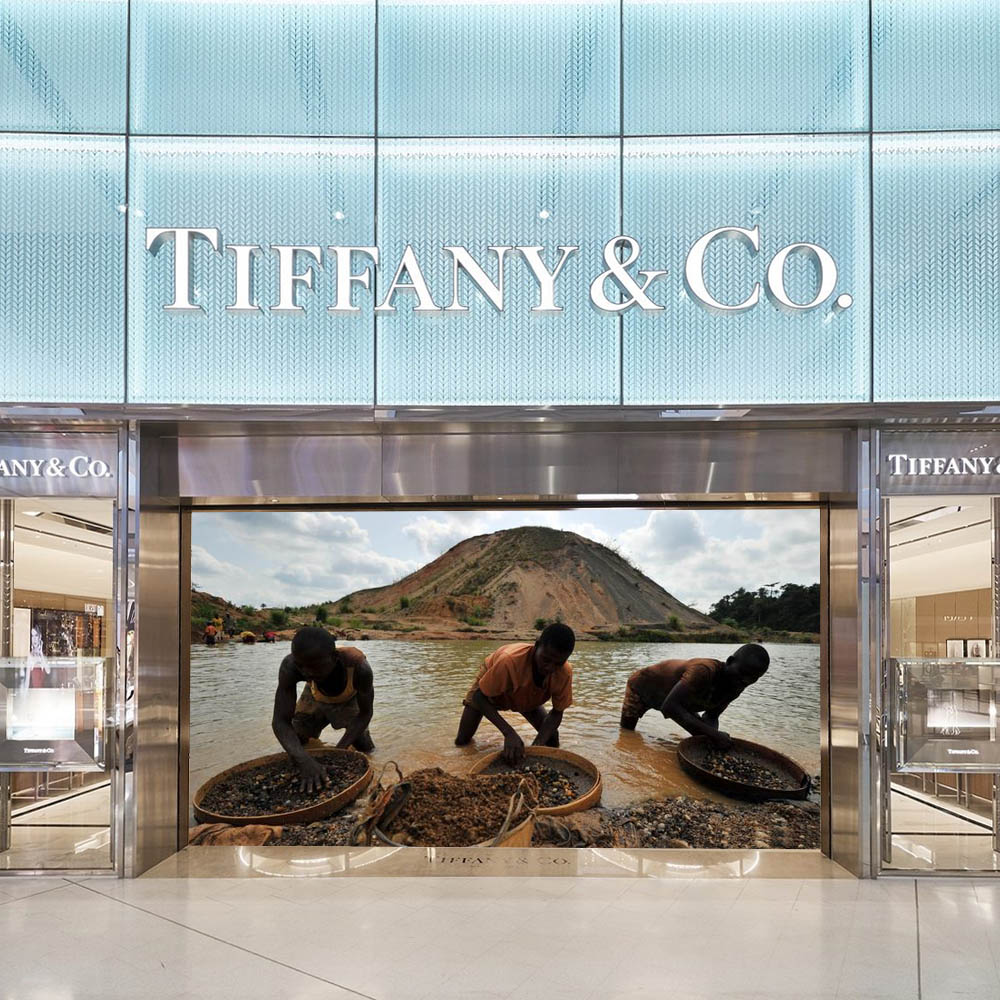
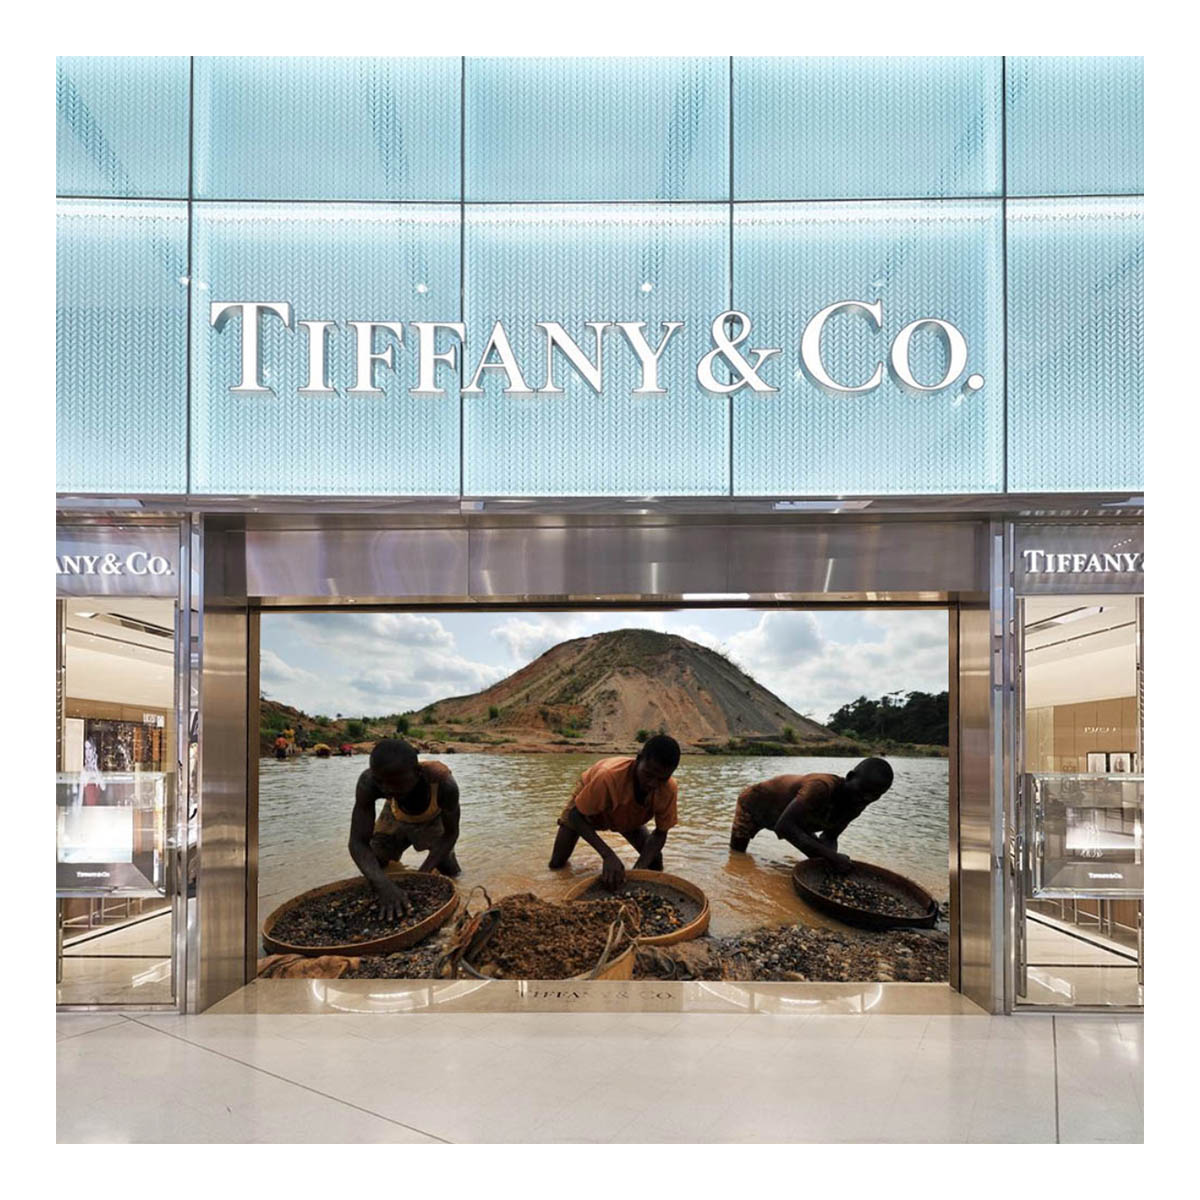
first upload

diff --git a/2.html b/2.html
@@ -1,7 +1,7 @@
 <!DOCTYPE html>
 <html>
     <head>
-        <title> Example 0</title>
+        <title> Page 2</title>
             <style>
         	h1{color:black;}
         	p{color:black;}
@@ -11,18 +11,29 @@
                 img.bottom {
                 vertical-align: text-bottom;
 }
+h8 {
+  min-width:200px;
+  max-width:500px;
+  text-align:center;
+  white-space: pre-line;
+}
             </style>
     </head>
     <body >
                <center><a href="3.html">
-  <img src="2.jpg" alt="HTML tutorial" style="width:700px;height:700px;border:0;">
+  <img src="2.jpg" alt="HTML tutorial" style="width:600px;height:600px;border:0;">
 </a></center>
 
+<font face="Courier New" color="black"><center><h8>"diamonds" / jpg images / oct 2017
+This is a combined image of a Tiffanys store and a Angolan diamond picking operation.
+The idea was to get two images and stack one to achieve a better horizon line.
+The color of the sky and tones of the store made a good match with what I was working with.
+</h8></center>
 
 <h1 align="left">sitemap</h1>
      <p style="text-align:left">
     <a href="main.html">1</a> 
-    <a href="3.html">3</a>
+    <a href="3.html">3</a></font>
 </p>
     </body>
 </html>

diff --git a/3.html b/3.html
@@ -1,7 +1,7 @@
 <!DOCTYPE html>
 <html>
     <head>
-        <title> Example 0</title>
+        <title> Page 3</title>
             <style>
         	h1{color:black;}
         	p{color:black;}
@@ -11,18 +11,29 @@
                 img.bottom {
                 vertical-align: text-bottom;
 }
+h8 {
+  min-width:200px;
+  max-width:500px;
+  text-align:center;
+  white-space: pre-line;
+}
             </style>
     </head>
     <body >
                <center><a href="main.html">
-  <img src="3.jpg" alt="HTML tutorial" style="width:700px;height:700px;border:0;">
+  <img src="3.jpg" alt="HTML tutorial" style="width:600px;height:600px;border:0;">
 </a></center>
 
+<font face="Courier New" color="black"><center><h8>"power" / jpg images / oct 2017
+This is a combined image of a Tiffanys store and a Angolan diamond picking operation.
+The idea was to get two images and stack one to achieve a better horizon line.
+The color of the sky and tones of the store made a good match with what I was working with.
+</h8></center>
 
 <h1 align="left">sitemap</h1>
      <p style="text-align:left">
     <a href="main.html">1</a> 
-    <a href="2.html">2</a>
+    <a href="2.html">2</a></font>
 </p>
     </body>
 </html>

diff --git a/main.html b/main.html
@@ -1,7 +1,7 @@
 <!DOCTYPE html>
 <html>
     <head>
-        <title> Example 0</title>
+        <title> Project 5</title>
             <style>
         	h1{color:black;}
         	p{color:black;}
@@ -11,17 +11,28 @@
                 img.bottom {
                 vertical-align: text-bottom;
 }
+h8 {
+  min-width:200px;
+  max-width:500px;
+  text-align:center;
+  white-space: pre-line;
+}
             </style>
     </head>
-    <body >
+    <body , >
                <center><a href="2.html">
-  <img src="malcolm.jpg" alt="HTML tutorial" style="width:700px;height:700px;border:0;">
+  <img src="malcolm.jpg" alt="HTML tutorial" style="width:600px;height:600px;border:0;">
 </a></center>
+
+<font face="Courier New" color="black"><center><h8>"1947" / jpg images / oct 2017
+I wanted to recreate a image of Malcolm X and his run with the police in 1947.
+Incorporating the artist elements of his time was something I had kept in mind.
+The relationship between the comics character and the subject at matter.</h8></center>
 
 <h1 align="left">sitemap</h1>
      <p style="text-align:left">
     <a href="2.html">2</a> 
-    <a href="3.html">3</a>
+    <a href="3.html">3</a></font>
 </p>
     </body>
 </html>
